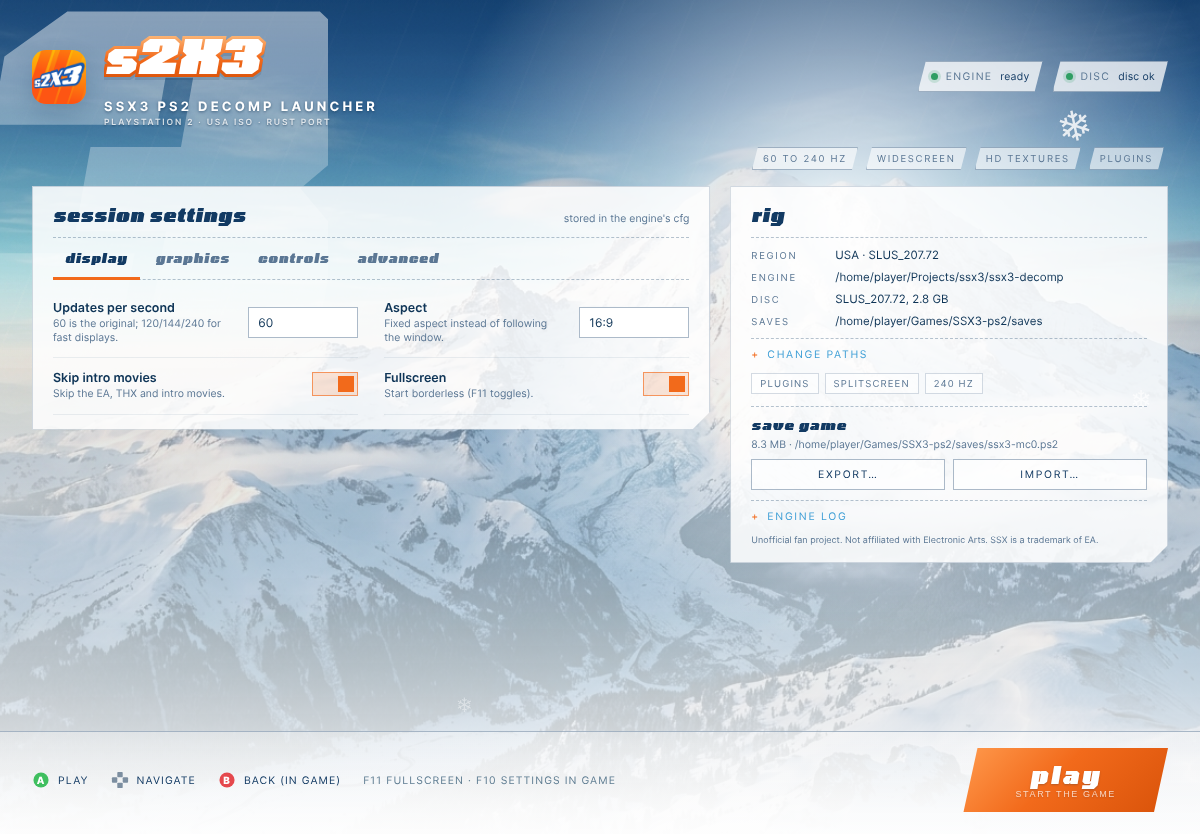
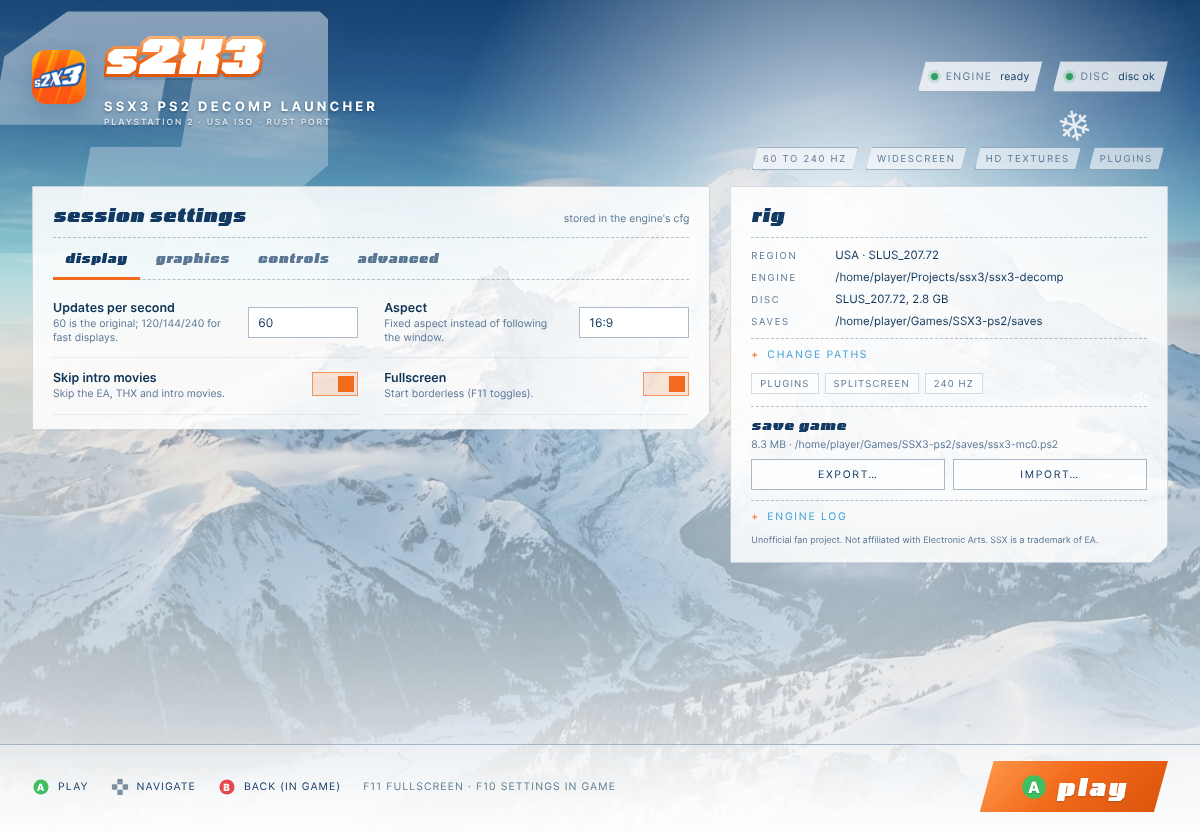
Release 0.0.1 and add controller glyph to Play
Bump the launcher and workspace to 0.0.1, publish Windows alpha in the site copy, refresh the launcher screenshots, and show the selected Xbox A / PlayStation Cross glyph inside the Play button.

diff --git a/site/index.html b/site/index.html
@@ -55,8 +55,8 @@
             save and log in one place. No emulator. No game data. No account.
           </p>
           <div class="hero-badges">
-            <span class="badge badge-hot">LINUX ALPHA 0.1</span>
-            <span class="badge">WINDOWS + MACOS NEXT</span>
+            <span class="badge badge-hot">LINUX + WINDOWS ALPHA</span>
+            <span class="badge">MACOS NEXT</span>
             <span class="badge badge-ghost">GPL-3.0</span>
           </div>
           <p class="hero-links">
@@ -84,20 +84,20 @@
             width="800"
             height="800"
           />
-          <span class="art-sticker">ALPHA<br /><b>0.1</b></span>
+          <span class="art-sticker">ALPHA<br /><b>0.0.1</b></span>
           <span class="art-plate">NATIVE · PS2 · 60-240 HZ</span>
         </div>
       </header>
 
       <div class="ticker" aria-hidden="true">
         <div class="ticker-track">
-          <span>★ s2X3 ALPHA 0.1 IN DEVELOPMENT</span>
-          <span>★ LINUX FIRST · WINDOWS + MACOS NEXT</span>
+          <span>★ s2X3 ALPHA 0.0.1 IN DEVELOPMENT</span>
+          <span>★ LINUX + WINDOWS ALPHA · MACOS NEXT</span>
           <span>★ SAVE EXPORT &amp; IMPORT IS IN</span>
           <span>★ NO GAME DATA, EVER</span>
           <span>★ BRING YOUR OWN DISC</span>
-          <span>★ s2X3 ALPHA 0.1 IN DEVELOPMENT</span>
-          <span>★ LINUX FIRST · WINDOWS + MACOS NEXT</span>
+          <span>★ s2X3 ALPHA 0.0.1 IN DEVELOPMENT</span>
+          <span>★ LINUX + WINDOWS ALPHA · MACOS NEXT</span>
           <span>★ SAVE EXPORT &amp; IMPORT IS IN</span>
           <span>★ NO GAME DATA, EVER</span>
           <span>★ BRING YOUR OWN DISC</span>
@@ -136,7 +136,7 @@
               </div>
               <div class="online-counter">
                 <span>LATEST BUILD</span>
-                <span class="digits" aria-label="alpha 0.1"><i>ALPHA 0.1</i></span>
+                <span class="digits" aria-label="alpha 0.0.1"><i>ALPHA 0.0.1</i></span>
               </div>
             </div>
           </section>
@@ -149,7 +149,7 @@
               <div class="board-inner">
                 <div class="board-meta">
                   <span>&gt;&gt; s2X3 DOWNLOAD CENTER</span>
-                  <span>ALPHA 0.1 // 11.25.2026</span>
+                  <span>ALPHA 0.0.1 // 11.25.2026</span>
                 </div>
 
                 <div class="scroll-shell">
@@ -216,7 +216,7 @@
                             <span>Linux</span>
                           </a>
                         </div>
-                        <p class="tiny">Linux alpha. Windows and macOS builds follow.</p>
+                        <p class="tiny">Linux and Windows alpha. macOS builds follow.</p>
                         <p class="links">
                           <a href="https://github.com/bitm4ncer/s2x3">View source &gt;&gt;</a>
                           <a href="https://github.com/bitm4ncer/s2x3/blob/main/ROADMAP.md"
@@ -372,9 +372,9 @@
                     <section class="portal-section" id="status">
                       <h2 class="subhead">Status</h2>
                       <p class="body-copy">
-                        The launcher, settings, saves and engine setup work on Linux.
-                        Windows and macOS follow. Menus and intro fill, performance
-                        presets, Tricky courses and audio are on the roadmap.
+                        The launcher, settings, saves and engine setup work on Linux, with a
+                        Windows alpha installer available now. macOS follows. Menus and intro
+                        fill, performance presets, Tricky courses and audio are on the roadmap.
                       </p>
                       <table class="status-table">
                         <thead>
@@ -470,7 +470,7 @@
                 </li>
                 <li>
                   <a href="https://github.com/bitm4ncer/s2x3/releases/latest">
-                    <span>Windows<sup>®</sup></span><em class="os-tag">NEXT</em>
+                    <span>Windows<sup>®</sup></span><em class="os-tag tag-hot">ALPHA</em>
                   </a>
                 </li>
                 <li>
@@ -518,7 +518,7 @@
                 <li><b>GPU</b><span>Vulkan capable</span></li>
                 <li><b>BUILD</b><span>Rust + Python 3</span></li>
               </ul>
-              <p class="spec-note">WINDOWS + MACOS ON THE ROADMAP</p>
+              <p class="spec-note">MACOS ON THE ROADMAP</p>
             </div>
           </section>
         </aside>

diff --git a/apps/desktop/src/main.js b/apps/desktop/src/main.js
@@ -20,7 +20,7 @@ function toast(text, bad = false) {
    UI can be styled without starting the engine. The desktop app always uses
    the real commands. */
 const mockState = {
-  version: "0.1.0",
+  version: "0.0.1",
   config_path: "~/.config/s2x3/config.toml",
   engine_id: "ps2-rust",
   engine_name: "SSX 3 (PlayStation 2, Rust port)",
@@ -172,6 +172,7 @@ function hints() {
   const ps = state?.buttons === "ps2";
   const play = ps ? psGlyph("cross") : glyph("A");
   const back = ps ? psGlyph("circle") : glyph("B");
+  $("play-glyph").innerHTML = play;
   $("hints").innerHTML = `
     <span class="hint">${play} Play</span>
     <span class="hint">${dpadGlyph()} Navigate</span>
@@ -380,11 +381,12 @@ function render(next) {
     checkEngineUpdate.done = true;
     setTimeout(checkEngineUpdate, 400);
   }
-  $("play-sub").textContent = ready
-    ? "start the game"
-    : state.binary.state !== "ready"
-      ? "engine not built"
-      : "choose a disc image";
+  const playReason =
+    state.binary.state !== "ready" ? "engine not built" : "choose a disc image";
+  $("play-sub").textContent = ready ? "" : playReason;
+  $("play-sub").hidden = ready;
+  $("play").setAttribute("aria-label", ready ? "Play" : `Play — ${playReason}`);
+  $("play").setAttribute("title", ready ? "Play" : playReason);
 }
 
 function scheduleSave() {

diff --git a/apps/desktop/src/style.css b/apps/desktop/src/style.css
@@ -741,6 +741,38 @@ details[open] > summary::before {
   transition: transform 0.12s, box-shadow 0.12s;
 }
 
+.play-launch {
+  padding: 12px 40px 11px;
+}
+
+.play-row {
+  display: flex;
+  align-items: center;
+  justify-content: center;
+  gap: 9px;
+}
+
+.play-glyph {
+  display: grid;
+  place-items: center;
+  width: 28px;
+  height: 28px;
+}
+
+.play-glyph .btn-glyph {
+  width: 28px;
+  height: 28px;
+}
+
+.play-glyph .ps-glyph {
+  width: 26px;
+  height: 26px;
+}
+
+.play-launch .play-sub {
+  margin-top: 2px;
+}
+
 .play:hover {
   transform: translateY(-1px);
   box-shadow: 0 18px 36px rgba(242, 106, 27, 0.45);

diff --git a/apps/desktop/src/index.html b/apps/desktop/src/index.html
@@ -149,9 +149,12 @@
 
     <footer class="dock">
       <div class="hints" id="hints"></div>
-      <button class="play" id="play">
-        <span class="play-label">PLAY</span>
-        <span class="play-sub" id="play-sub">start the game</span>
+      <button class="play play-launch" id="play">
+        <span class="play-row">
+          <span class="play-glyph" id="play-glyph" aria-hidden="true"></span>
+          <span class="play-label">PLAY</span>
+        </span>
+        <span class="play-sub" id="play-sub" hidden></span>
       </button>
     </footer>
 
